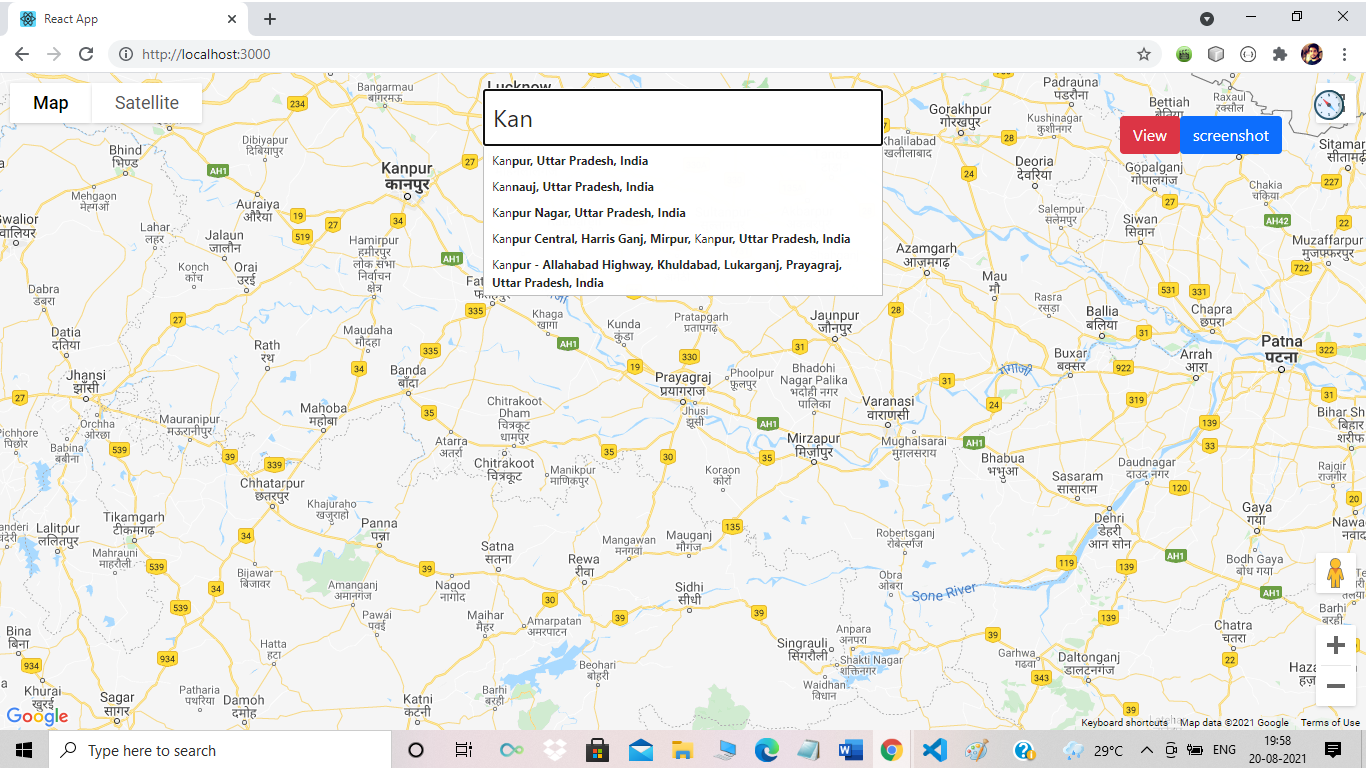
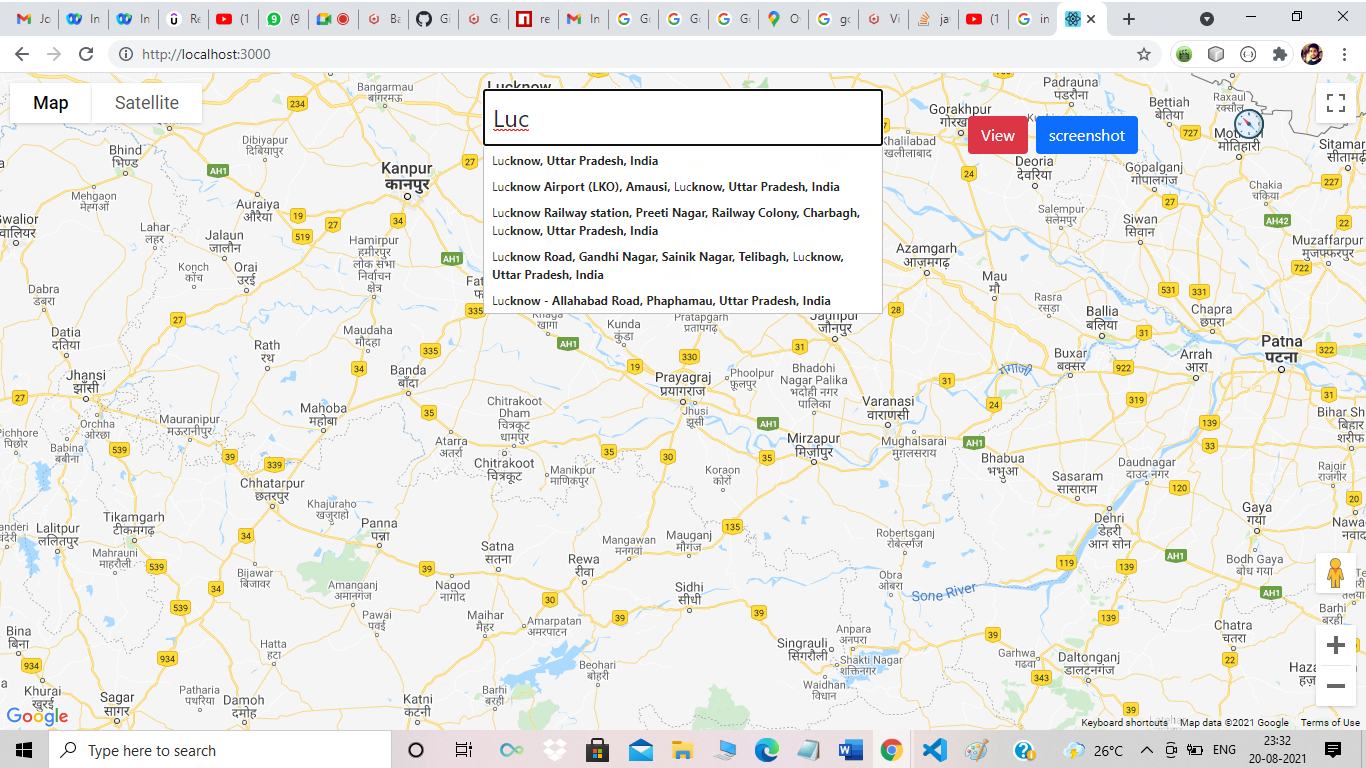
Css Fixed  and Images added

diff --git a/src/index.css b/src/index.css
@@ -16,7 +16,7 @@ code {
 h1 {
   position: absolute;
   top: 2rem;
-  left: 70rem;
+  left: 60rem;
   color: #281414;
   z-index: 10;
   margin: 0;
@@ -41,8 +41,8 @@ h1 {
 
 .locate {
   position: absolute;
-  top: 1rem;
-  right: 1rem;
+  top: 2.2rem;
+  right: 6rem;
   background: none;
   border: none;
   z-index: 10;
@@ -50,4 +50,11 @@ h1 {
 .locate img {
   width: 30px;
   cursor: pointer;
+}
+
+canvas{
+ width:100%;
+ height:100%;
+
+
 }

diff --git a/src/App.js b/src/App.js
@@ -132,7 +132,7 @@ for (var i = 0; i < 6; i++) {
      
       
         
-        <button  className="btn btn-danger" onClick={showModal} >View </button>
+        <button  className="btn btn-danger mx-2" onClick={showModal} >View </button>
         <button  className="btn btn-primary" onClick={() => takeScreenshot()}>screenshot</button>
         
         </h1>

diff --git a/README.md b/README.md
@@ -14,3 +14,10 @@
 - Open the app and type a place of your choice - the map of that place will pop with zoomed
 - Press the screenshot button it will take the screenshot 
 - Click On The View Button to see the 3-D effect
+
+ ![Main Page](/img/snaptrude1.png)
+ ![Search Place](/img/snaptrude2.png)
+ ![3-D Modal](/img/snaptrude2.png)
+ ![Ok](/img/snaptrude4.png)
+ ![Ok1](/img/snaptrude5.png)
+ 
